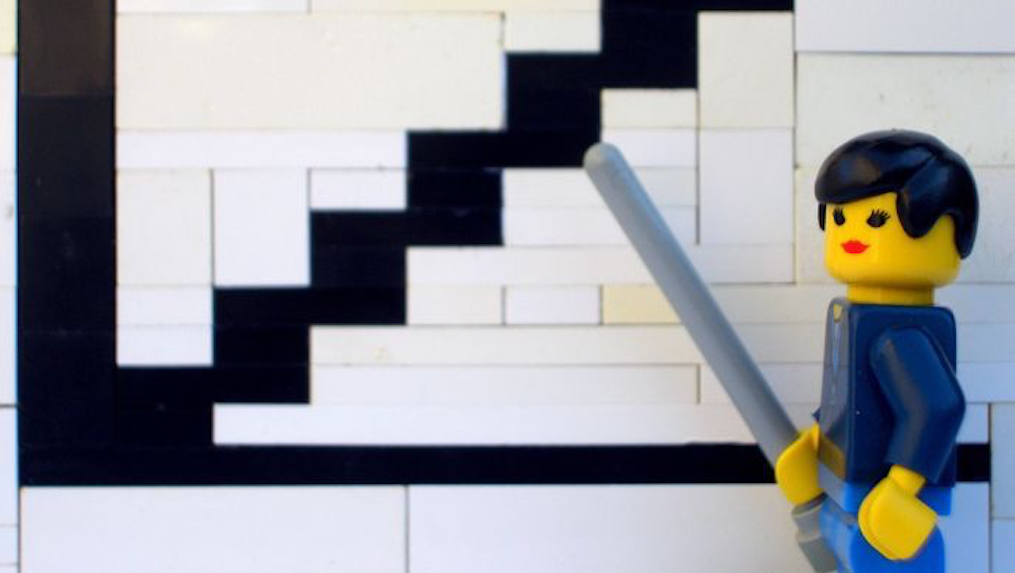
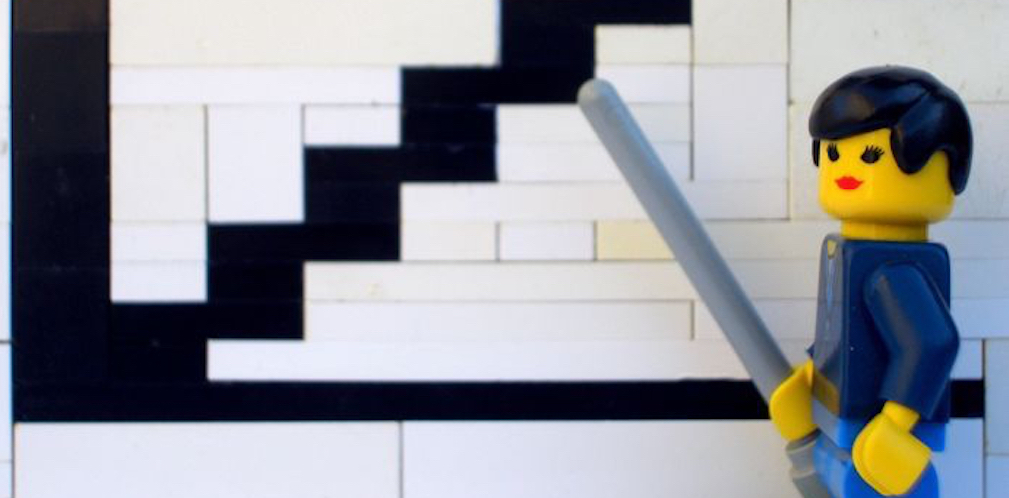
Update header matplotlib

diff --git a/_site/visualizations/matplotlib-updates/index.html b/_site/visualizations/matplotlib-updates/index.html
@@ -221,7 +221,7 @@
 
 
 <div class="masthead-caption">
-	<a href="https://www.kaggle.com/crawford/80-cereals">Matplotlib default and update constructed by author. Kaggle cereal dataset.</a>
+	<a href="http://bit.ly/31rt1Zq">Photo by Alice Bartlett. Cropped and resized by author.</a>
 </div>
 
 
@@ -249,11 +249,9 @@
 
 			<!--more-->
 
-<p>Intro statements - the defaults for matplotlib aren’t great.  Can move to Seaborn (more on that later) but you can also use special commands to make your matplotlib plots look a lot better.</p>
+<p>Matplotlib is typically the first data visualization package that Python programmers learn.  While its users can create basic figures with just a few lines of code, these resulting default plots often prove insufficient in both design aesthetics and communicative power.  Simple adjustments can lead to dramatic improvements, however, and in this post, I will share several such tips on upgrading basic matplotlib figures.</p>
 
-<p>I recently gave a talk at ODSC NYC about data visualization…</p>
-
-<p>Cereal data used for all examples below</p>
+<p>In the examples that follow, I will be using information found in <a href="https://www.kaggle.com/crawford/80-cereals">this Kaggle dataset about cereals</a>.  I have normalized three features (calories, fat, and sugar) by serving size to better compare cereal trends and ratings.  Details about these data transformations and the code used to produce each example figure can be found on <a href="https://github.com/kimfetti/Blog/blob/master/matplotlib_tips.ipynb">GitHub</a>.</p>
 
 <h2 id="remove-spines">Remove Spines</h2>
 
@@ -443,7 +441,7 @@
 <table>
   <tbody>
     <tr>
-      <td><a href="https://github.com/kimfetti/Blog/blob/master/planetary_birthday_problem.ipynb">Check out this code on GitHub!</a></td>
+      <td><a href="https://github.com/kimfetti/Blog/blob/master/matplotlib_tips.ipynb">Check out this code on GitHub!</a></td>
       <td> </td>
       <td><a href="bit.ly/odscNyc19_dataviz">Check out my ODSC conference materials with Google Colab!</a></td>
     </tr>

diff --git a/_site/index.html b/_site/index.html
@@ -268,7 +268,7 @@
 
             
             <p class="text-right caption">
-                <a href="https://www.kaggle.com/crawford/80-cereals">Kaggle cereal dataset.</a>
+                <a href="http://bit.ly/31rt1Zq">Photo by Alice Bartlett. Cropped by author.</a>
             </p>
             
             

diff --git a/_posts/viz/2019-08-05-matplotlib-updates.md b/_posts/viz/2019-08-05-matplotlib-updates.md
@@ -9,13 +9,13 @@ teaser: "<em>Matplotlib's default properties often yield unappealing plots that 
 header:
     image: lego_header.jpg
     background-color: "#999999"
-    caption: "Matplotlib default and update constructed by author. Kaggle cereal dataset."
-    caption_url: https://www.kaggle.com/crawford/80-cereals
+    caption: "Photo by Alice Bartlett. Cropped and resized by author."
+    caption_url: http://bit.ly/31rt1Zq
 image:
     thumb: lego_thumb.jpg
     homepage: lego_header.jpg
-    caption: "Kaggle cereal dataset."
-    caption_url: https://www.kaggle.com/crawford/80-cereals
+    caption: "Photo by Alice Bartlett. Cropped by author."
+    caption_url: http://bit.ly/31rt1Zq
 categories:
     - visualizations
 show_meta: true
@@ -23,12 +23,10 @@ comments: true
 ---
 <!--more-->
 
+Matplotlib is typically the first data visualization package that Python programmers learn.  While its users can create basic figures with just a few lines of code, these resulting default plots often prove insufficient in both design aesthetics and communicative power.  Simple adjustments can lead to dramatic improvements, however, and in this post, I will share several such tips on upgrading basic matplotlib figures.
 
-Intro statements - the defaults for matplotlib aren't great.  Can move to Seaborn (more on that later) but you can also use special commands to make your matplotlib plots look a lot better.
+In the examples that follow, I will be using information found in [this Kaggle dataset about cereals][10].  I have normalized three features (calories, fat, and sugar) by serving size to better compare cereal trends and ratings.  Details about these data transformations and the code used to produce each example figure can be found on [GitHub][11].
 
-I recently gave a talk at ODSC NYC about data visualization...  
-
-Cereal data used for all examples below
 
 ## Remove Spines
 
@@ -226,7 +224,7 @@ mostly about telling story quicker - highlight annotate, layering.  and removing
 
 
 
-[Check out this code on GitHub!](https://github.com/kimfetti/Blog/blob/master/planetary_birthday_problem.ipynb)  ||  [Check out my ODSC conference materials with Google Colab!](bit.ly/odscNyc19_dataviz)
+[Check out this code on GitHub!][11]  ||  [Check out my ODSC conference materials with Google Colab!](bit.ly/odscNyc19_dataviz)
 
 
  [1]: https://matplotlib.org/3.1.1/api/_as_gen/matplotlib.pyplot.gca.html
@@ -239,5 +237,6 @@ mostly about telling story quicker - highlight annotate, layering.  and removing
  [8]: https://matplotlib.org/3.1.1/api/patches_api.html#module-matplotlib.patches
  [9]: https://matplotlib.org/3.1.1/gallery/shapes_and_collections/dolphin.html#sphx-glr-gallery-shapes-and-collections-dolphin-py
  [10]: https://www.kaggle.com/crawford/80-cereals
+ [11]: https://github.com/kimfetti/Blog/blob/master/matplotlib_tips.ipynb
 
 
